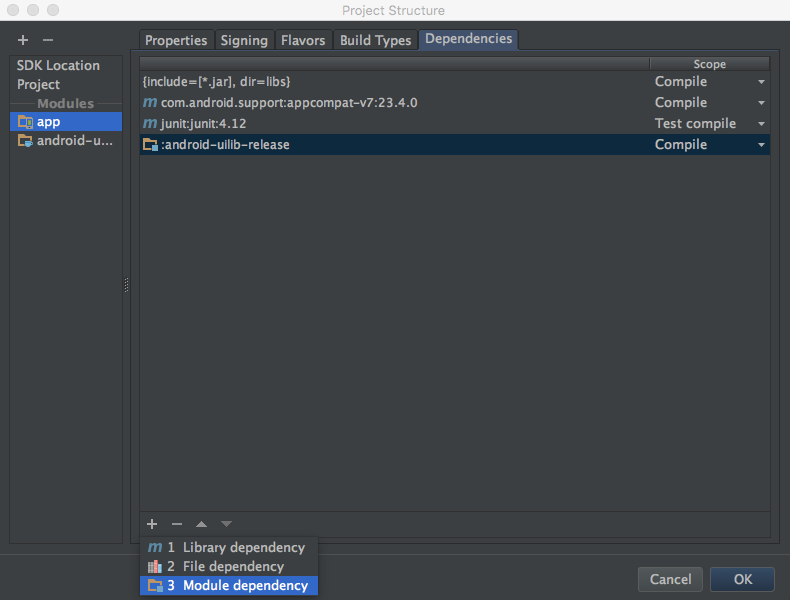
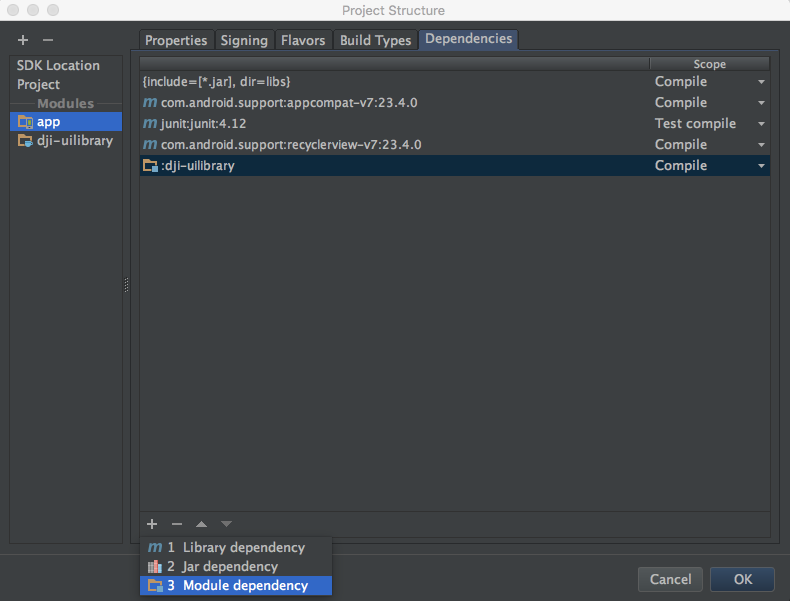
Update Android UILibraryDemo to Android UILibrary 4.2.1 and Android SDK 4.2.1.

diff --git a/source/cn/android-tutorials/UILibraryDemo.md b/source/cn/android-tutorials/UILibraryDemo.md
@@ -33,7 +33,7 @@ For an in depth learning on DJI UI Library, please go to the [UI Library Introdu
 
 **1**. Now, let's create a new project in Android Studio, open Android Studio and select **File -> New -> New Project** to create a new project, named 'UILibraryDemo'. Enter the company domain and package name (Here we use "com.dji.uilibrarydemo") you want and press Next. Set the minimum SDK version as `API 18: Android 4.3 (Jelly Bean)` for "Phone and Tablet" and press Next. Then select "Empty Activity" and press Next. Lastly, leave the Activity Name as "MainActivity", and the Layout Name as "activity_main", press "Finish" to create the project.
 
-**2**. Next, download the **android-uilib-release.aar** file from this [Github link](https://github.com/dji-sdk/Mobile-UILibrary-Android/blob/master/libs/android-uilib-release.aar). Go to **File -> New -> New Module** on the Android Studio menu:
+**2**. Next, download the **dji-uilibrary.aar** file from this [Github link](https://github.com/dji-sdk/Mobile-UILibrary-Android/blob/master/libs/). Go to **File -> New -> New Module** on the Android Studio menu:
 
 <img src="../../images/tutorials-and-samples/Android/UILibraryDemo/newModule.png" width="400">
 
@@ -41,9 +41,9 @@ Choose "Import .JAR/.AAR Package" and click on "Next" button as shown below:
 
 <img src="../../images/tutorials-and-samples/Android/UILibraryDemo/importAAR.png" width="600">
 
-Choose the downloaded **android-uilib-release.aar** file path in the "File name" field. A "android-uilib-release" name will show in the "Subproject name" field. Press "Finish" button to finish the settings.
+Choose the downloaded **dji-uilibrary.aar** file path in the "File name" field. A "dji-uilibrary" name will show in the "Subproject name" field. Press "Finish" button to finish the settings.
 
-Moreover, right click on the 'app' module in the project navigator and click "Open Module Settings" to open the Project Structure window. Navigate to the "Dependencies" tab, click on the "+" sign at the bottom and select "3 Module dependency", then choose the ":android-uilib-release" module and press "OK". You should find the ":android-uilib-release" appear in the list now.
+Moreover, right click on the 'app' module in the project navigator and click "Open Module Settings" to open the Project Structure window. Navigate to the "Dependencies" tab, click on the "+" sign at the bottom and select "3 Module dependency", then choose the ":dji-uilibrary" module and press "OK". You should find the ":dji-uilibrary" appear in the list now.
 
 <img src="../../images/tutorials-and-samples/Android/UILibraryDemo/dependency.png" width="600">
 
@@ -79,10 +79,10 @@ android {
 
 dependencies {
     compile fileTree(include: ['*.jar'], dir: 'libs')
-    compile 'com.android.support:appcompat-v7:23.3.0'
+    compile 'com.android.support:appcompat-v7:23.4.0'
     testCompile 'junit:junit:4.12'
-    compile project(':android-uilib-release')
     compile 'com.android.support:recyclerview-v7:23.4.0'
+    compile project(':dji-uilibrary')
 }
 ~~~
 
@@ -104,8 +104,8 @@ dependencies {
     compile fileTree(include: ['*.jar'], dir: 'libs')
     compile 'com.android.support:appcompat-v7:23.4.0'
     testCompile 'junit:junit:4.12'
-    compile project(':android-uilib-release')
     compile 'com.android.support:recyclerview-v7:23.4.0'
+    compile project(':dji-uilibrary')
     compile project(':dJISDKLIB')
 }
 ~~~

diff --git a/source/android-tutorials/UILibraryDemo.md b/source/android-tutorials/UILibraryDemo.md
@@ -33,7 +33,7 @@ For an in depth learning on DJI UI Library, please go to the [UI Library Introdu
 
 **1**. Now, let's create a new project in Android Studio, open Android Studio and select **File -> New -> New Project** to create a new project, named 'UILibraryDemo'. Enter the company domain and package name (Here we use "com.dji.uilibrarydemo") you want and press Next. Set the minimum SDK version as `API 18: Android 4.3 (Jelly Bean)` for "Phone and Tablet" and press Next. Then select "Empty Activity" and press Next. Lastly, leave the Activity Name as "MainActivity", and the Layout Name as "activity_main", press "Finish" to create the project.
 
-**2**. Next, download the **android-uilib-release.aar** file from this [Github link](https://github.com/dji-sdk/Mobile-UILibrary-Android/blob/master/libs/android-uilib-release.aar). Go to **File -> New -> New Module** on the Android Studio menu:
+**2**. Next, download the **dji-uilibrary.aar** file from this [Github link](https://github.com/dji-sdk/Mobile-UILibrary-Android/blob/master/libs/). Go to **File -> New -> New Module** on the Android Studio menu:
 
 <img src="../images/tutorials-and-samples/Android/UILibraryDemo/newModule.png" width="400">
 
@@ -41,9 +41,9 @@ Choose "Import .JAR/.AAR Package" and click on "Next" button as shown below:
 
 <img src="../images/tutorials-and-samples/Android/UILibraryDemo/importAAR.png" width="600">
 
-Choose the downloaded **android-uilib-release.aar** file path in the "File name" field. A "android-uilib-release" name will show in the "Subproject name" field. Press "Finish" button to finish the settings.
+Choose the downloaded **dji-uilibrary.aar** file path in the "File name" field. A "dji-uilibrary" name will show in the "Subproject name" field. Press "Finish" button to finish the settings.
 
-Moreover, right click on the 'app' module in the project navigator and click "Open Module Settings" to open the Project Structure window. Navigate to the "Dependencies" tab, click on the "+" sign at the bottom and select "3 Module dependency", then choose the ":android-uilib-release" module and press "OK". You should find the ":android-uilib-release" appear in the list now.
+Moreover, right click on the 'app' module in the project navigator and click "Open Module Settings" to open the Project Structure window. Navigate to the "Dependencies" tab, click on the "+" sign at the bottom and select "3 Module dependency", then choose the ":dji-uilibrary" module and press "OK". You should find the ":dji-uilibrary" appear in the list now.
 
 <img src="../images/tutorials-and-samples/Android/UILibraryDemo/dependency.png" width="600">
 
@@ -79,10 +79,10 @@ android {
 
 dependencies {
     compile fileTree(include: ['*.jar'], dir: 'libs')
-    compile 'com.android.support:appcompat-v7:23.3.0'
+    compile 'com.android.support:appcompat-v7:23.4.0'
     testCompile 'junit:junit:4.12'
-    compile project(':android-uilib-release')
     compile 'com.android.support:recyclerview-v7:23.4.0'
+    compile project(':dji-uilibrary')
 }
 ~~~
 
@@ -104,8 +104,8 @@ dependencies {
     compile fileTree(include: ['*.jar'], dir: 'libs')
     compile 'com.android.support:appcompat-v7:23.4.0'
     testCompile 'junit:junit:4.12'
-    compile project(':android-uilib-release')
     compile 'com.android.support:recyclerview-v7:23.4.0'
+    compile project(':dji-uilibrary')
     compile project(':dJISDKLIB')
 }
 ~~~
